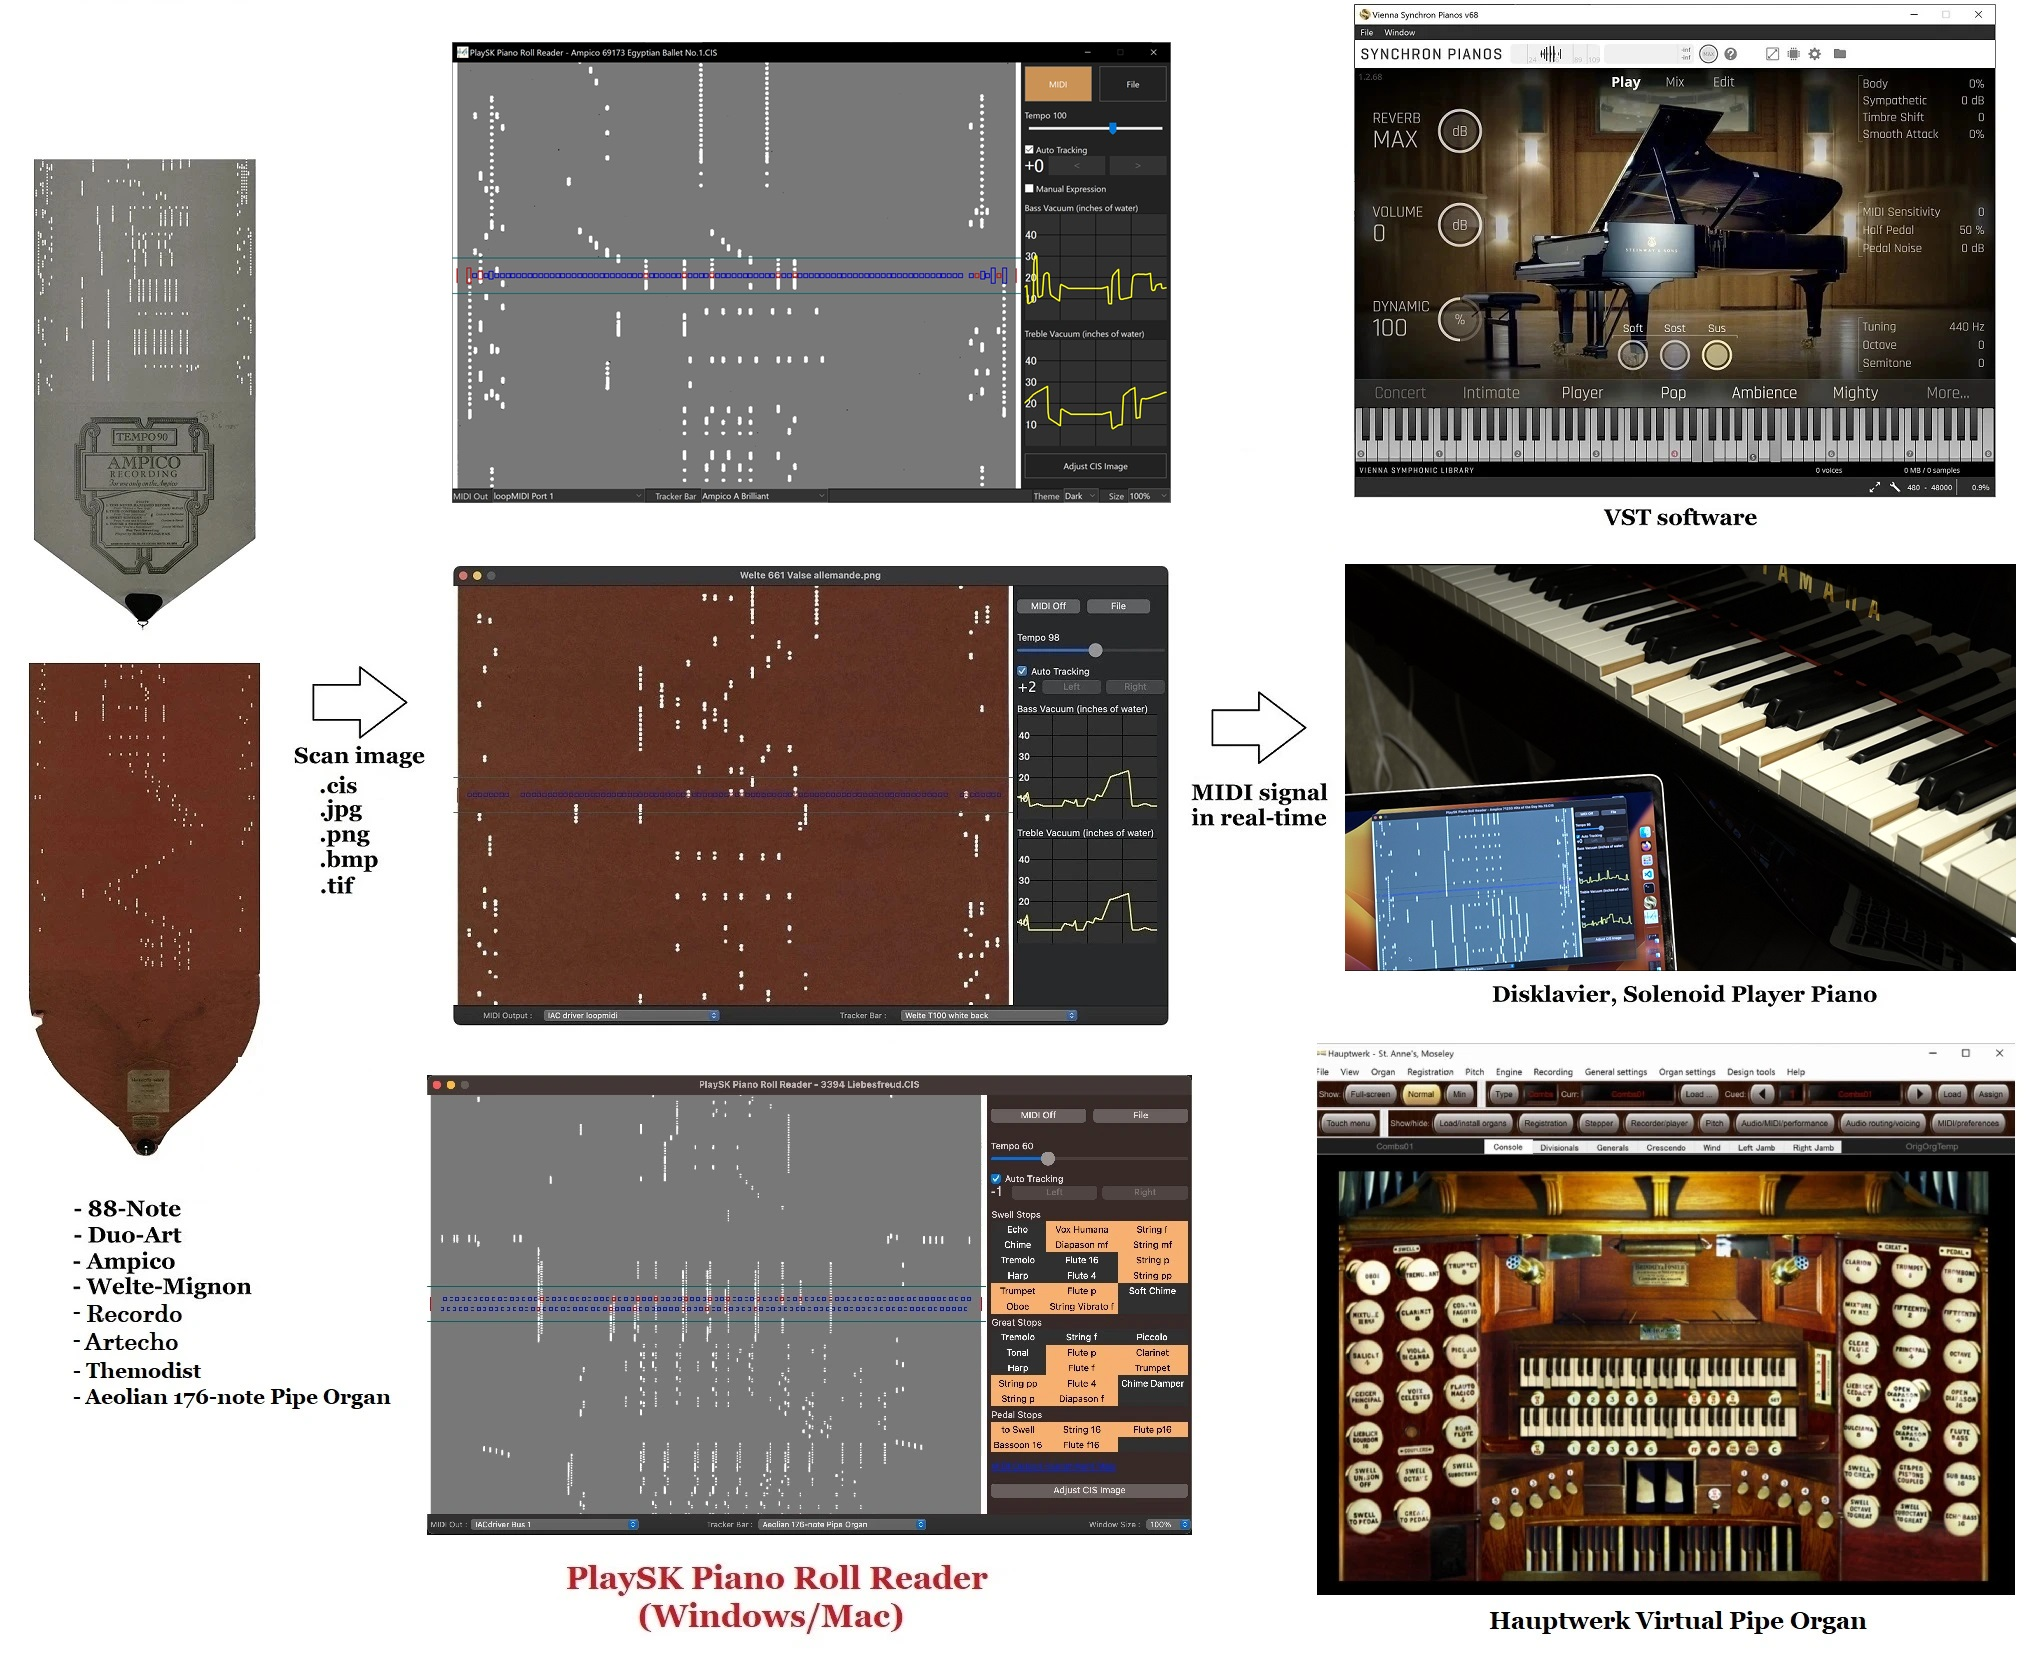
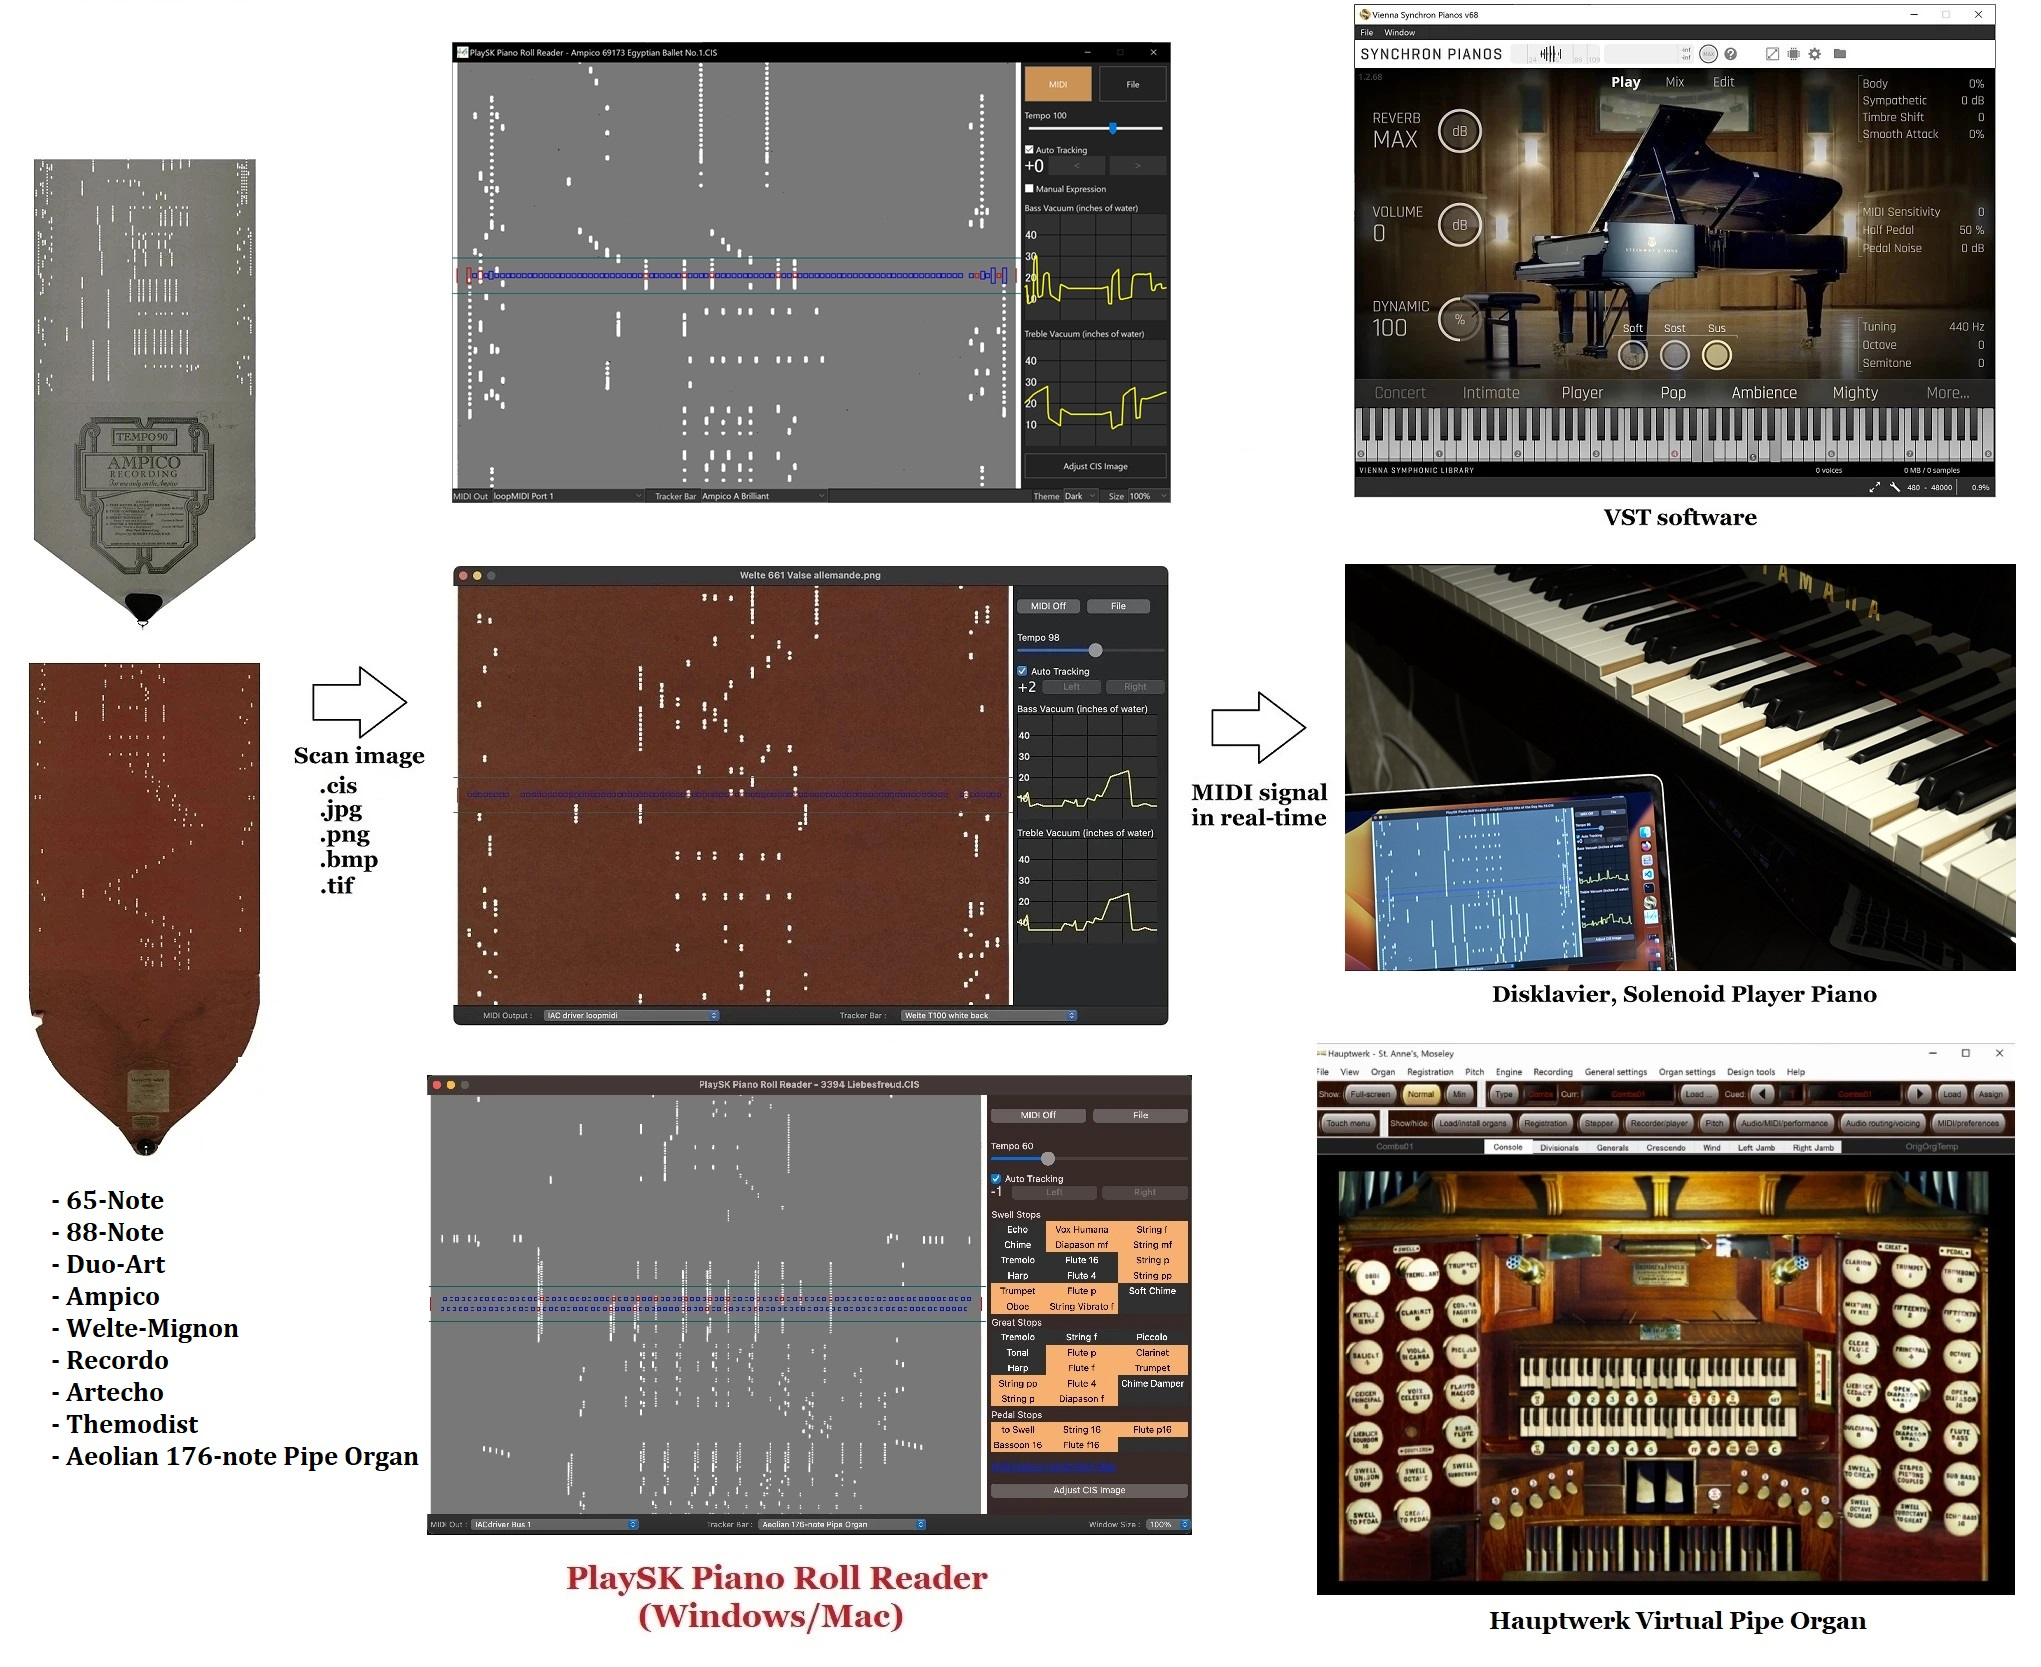
update version

Changed region(s): [[0.0309, 0.7175, 0.1852, 0.9046], [0.0926, 0.8734, 0.1543, 0.9046]]

diff --git a/src/version.py b/src/version.py
@@ -1,4 +1,4 @@
 
 APP_TITLE = "PlaySK Piano Roll Reader"
-APP_VERSION = "3.8.1"
-COPY_RIGHT = "(C) Sasaki Katsumasa 2014-2026"
+APP_VERSION = "3.9.0"
+COPY_RIGHT = "(C) Sasaki Katsumasa 2014-2027"

diff --git a/README.md b/README.md
@@ -1,4 +1,4 @@
-# PlaySK Piano Roll Reader Ver3.8
+# PlaySK Piano Roll Reader Ver3.9
 
 Optically reading a piano roll image, emulates expression and output midi signal in real-time.
 
@@ -6,8 +6,9 @@ Optically reading a piano roll image, emulates expression and output midi signal
 
 The "Virtual Tracker Bar" optically picks up roll holes then emulates note, pedal and expression code. The expression code is decoded to vacuum level (in inches of water) in real-time, then convert to MIDI velocity.
 
-Currently, 9 virtual tracker bars are available.
+Support tracker bars
 - Aeolian 176-note Duo-Art Pipe Organ ([MIDI output assignment](https://playsk-aeolian176note-midi-assignment.pages.dev/))
+- 65-note
 - Standard 88-note
 - Ampico A / B
 - Duo-Art
